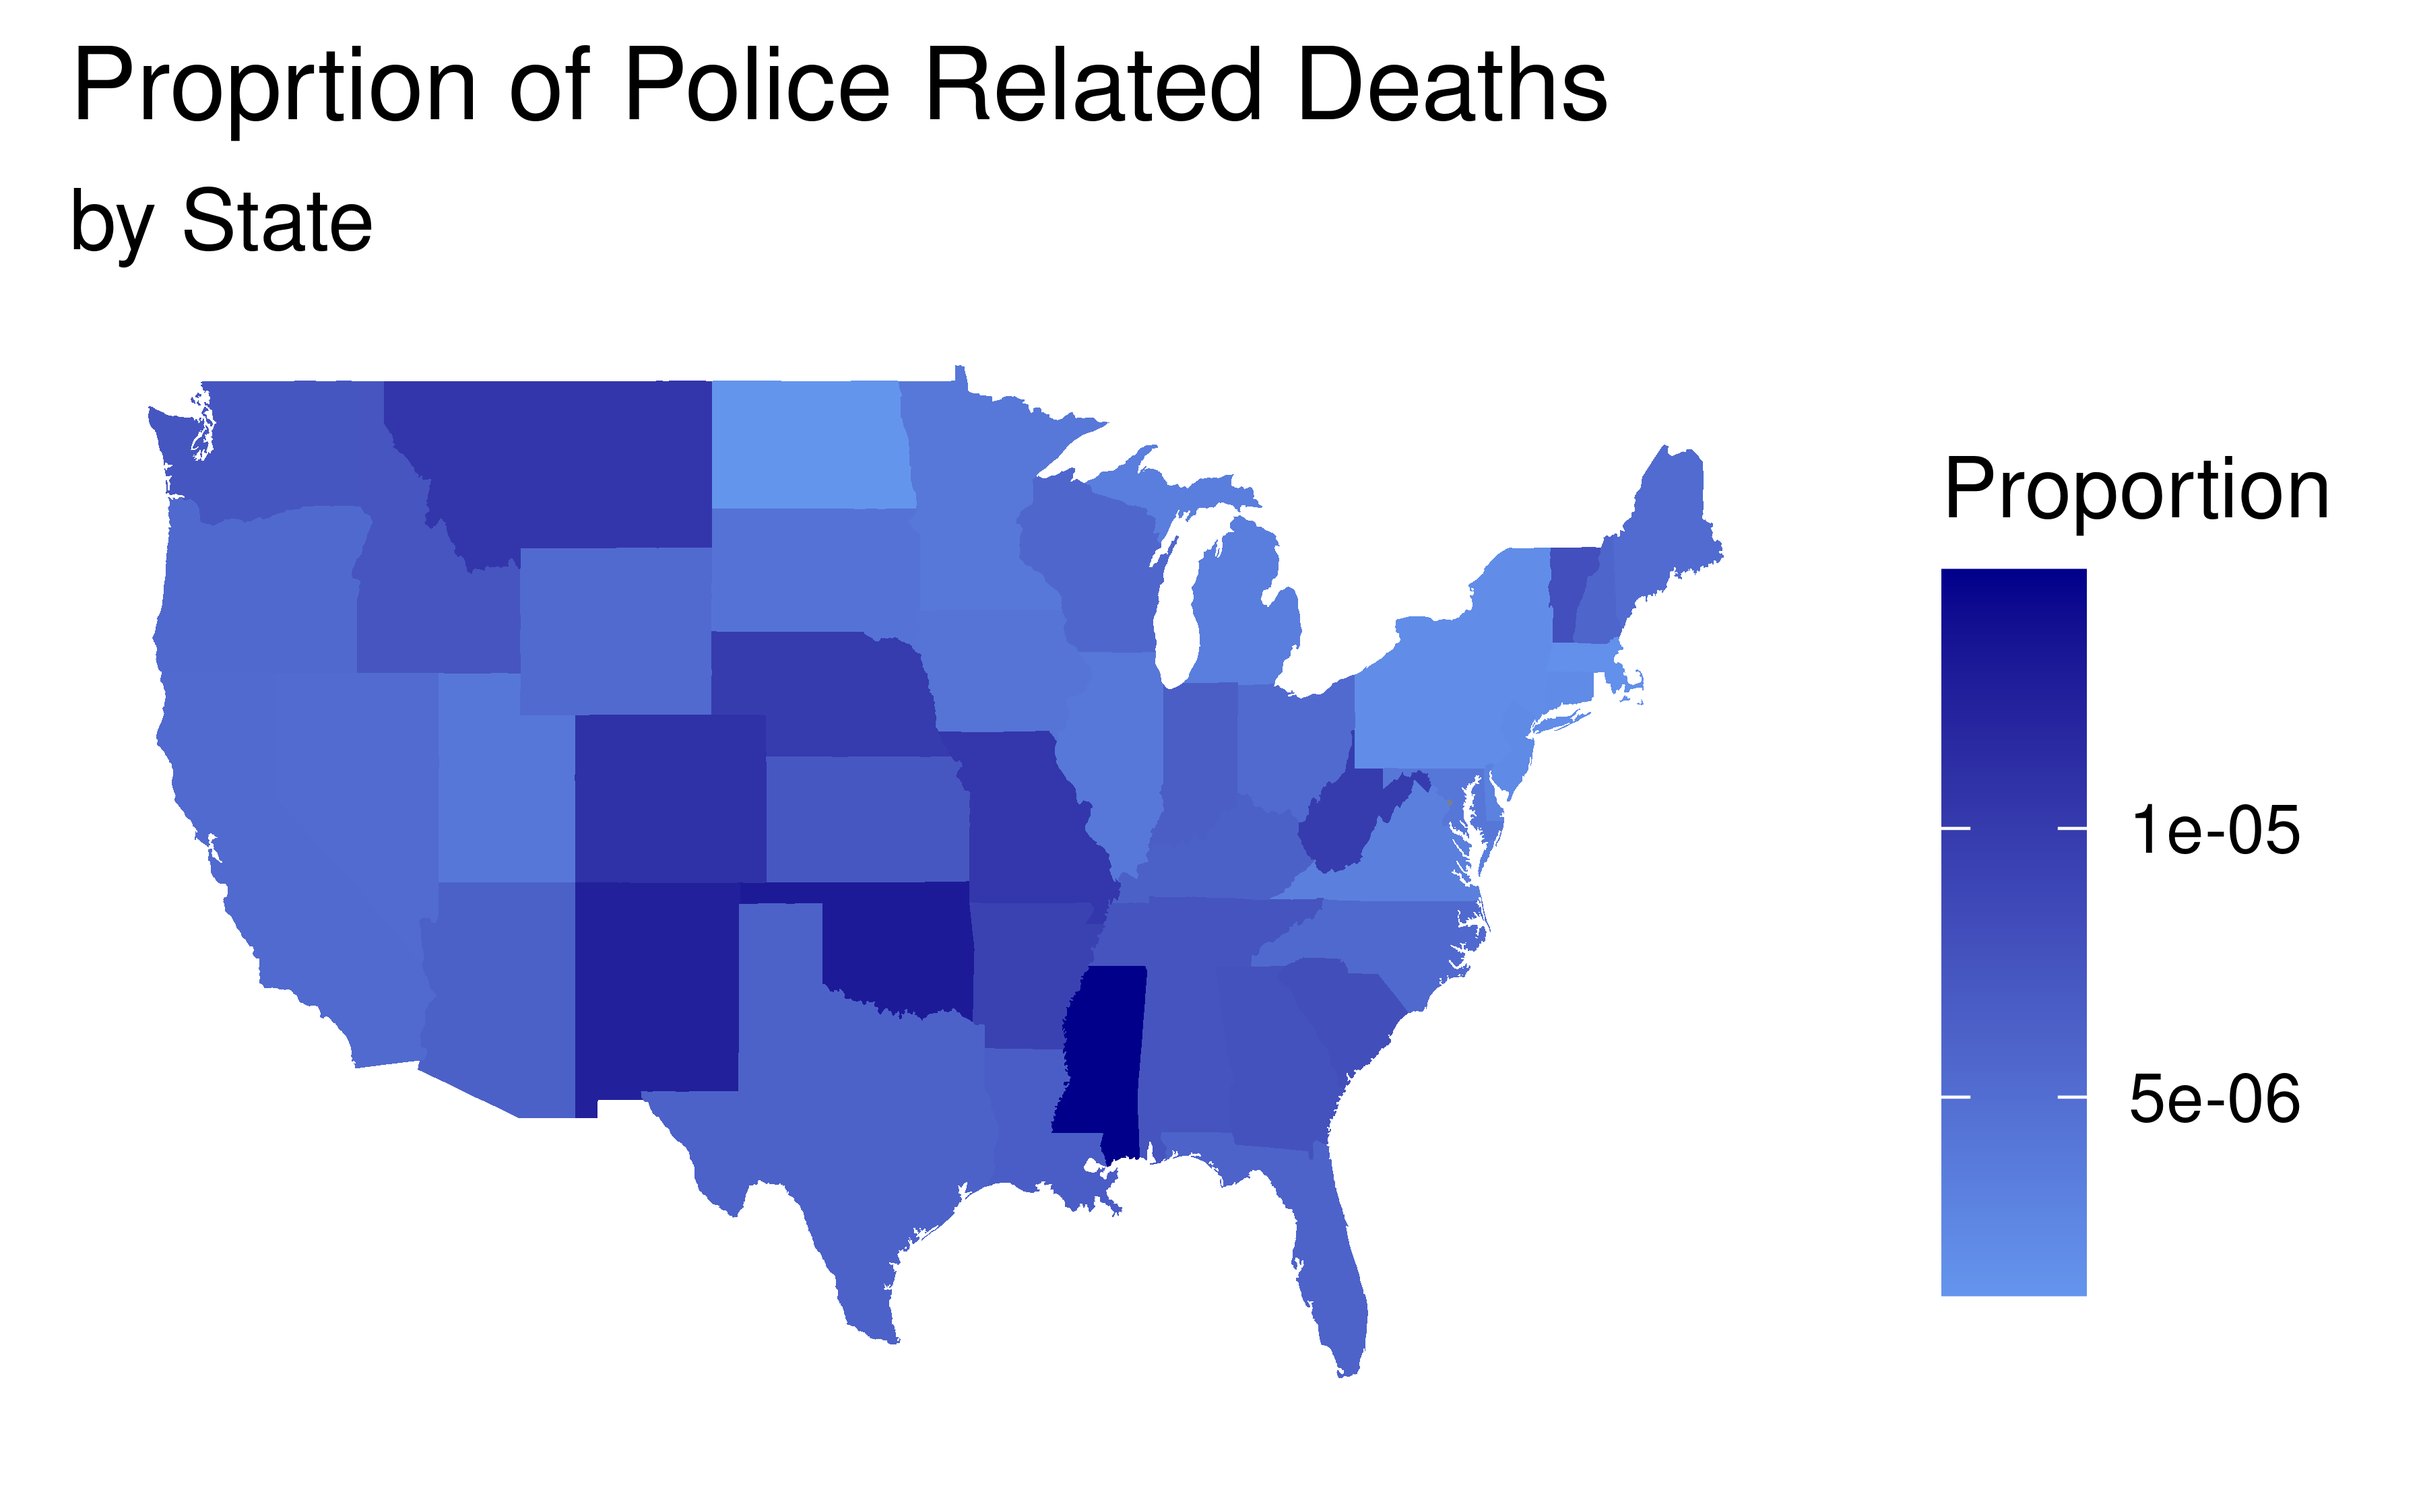
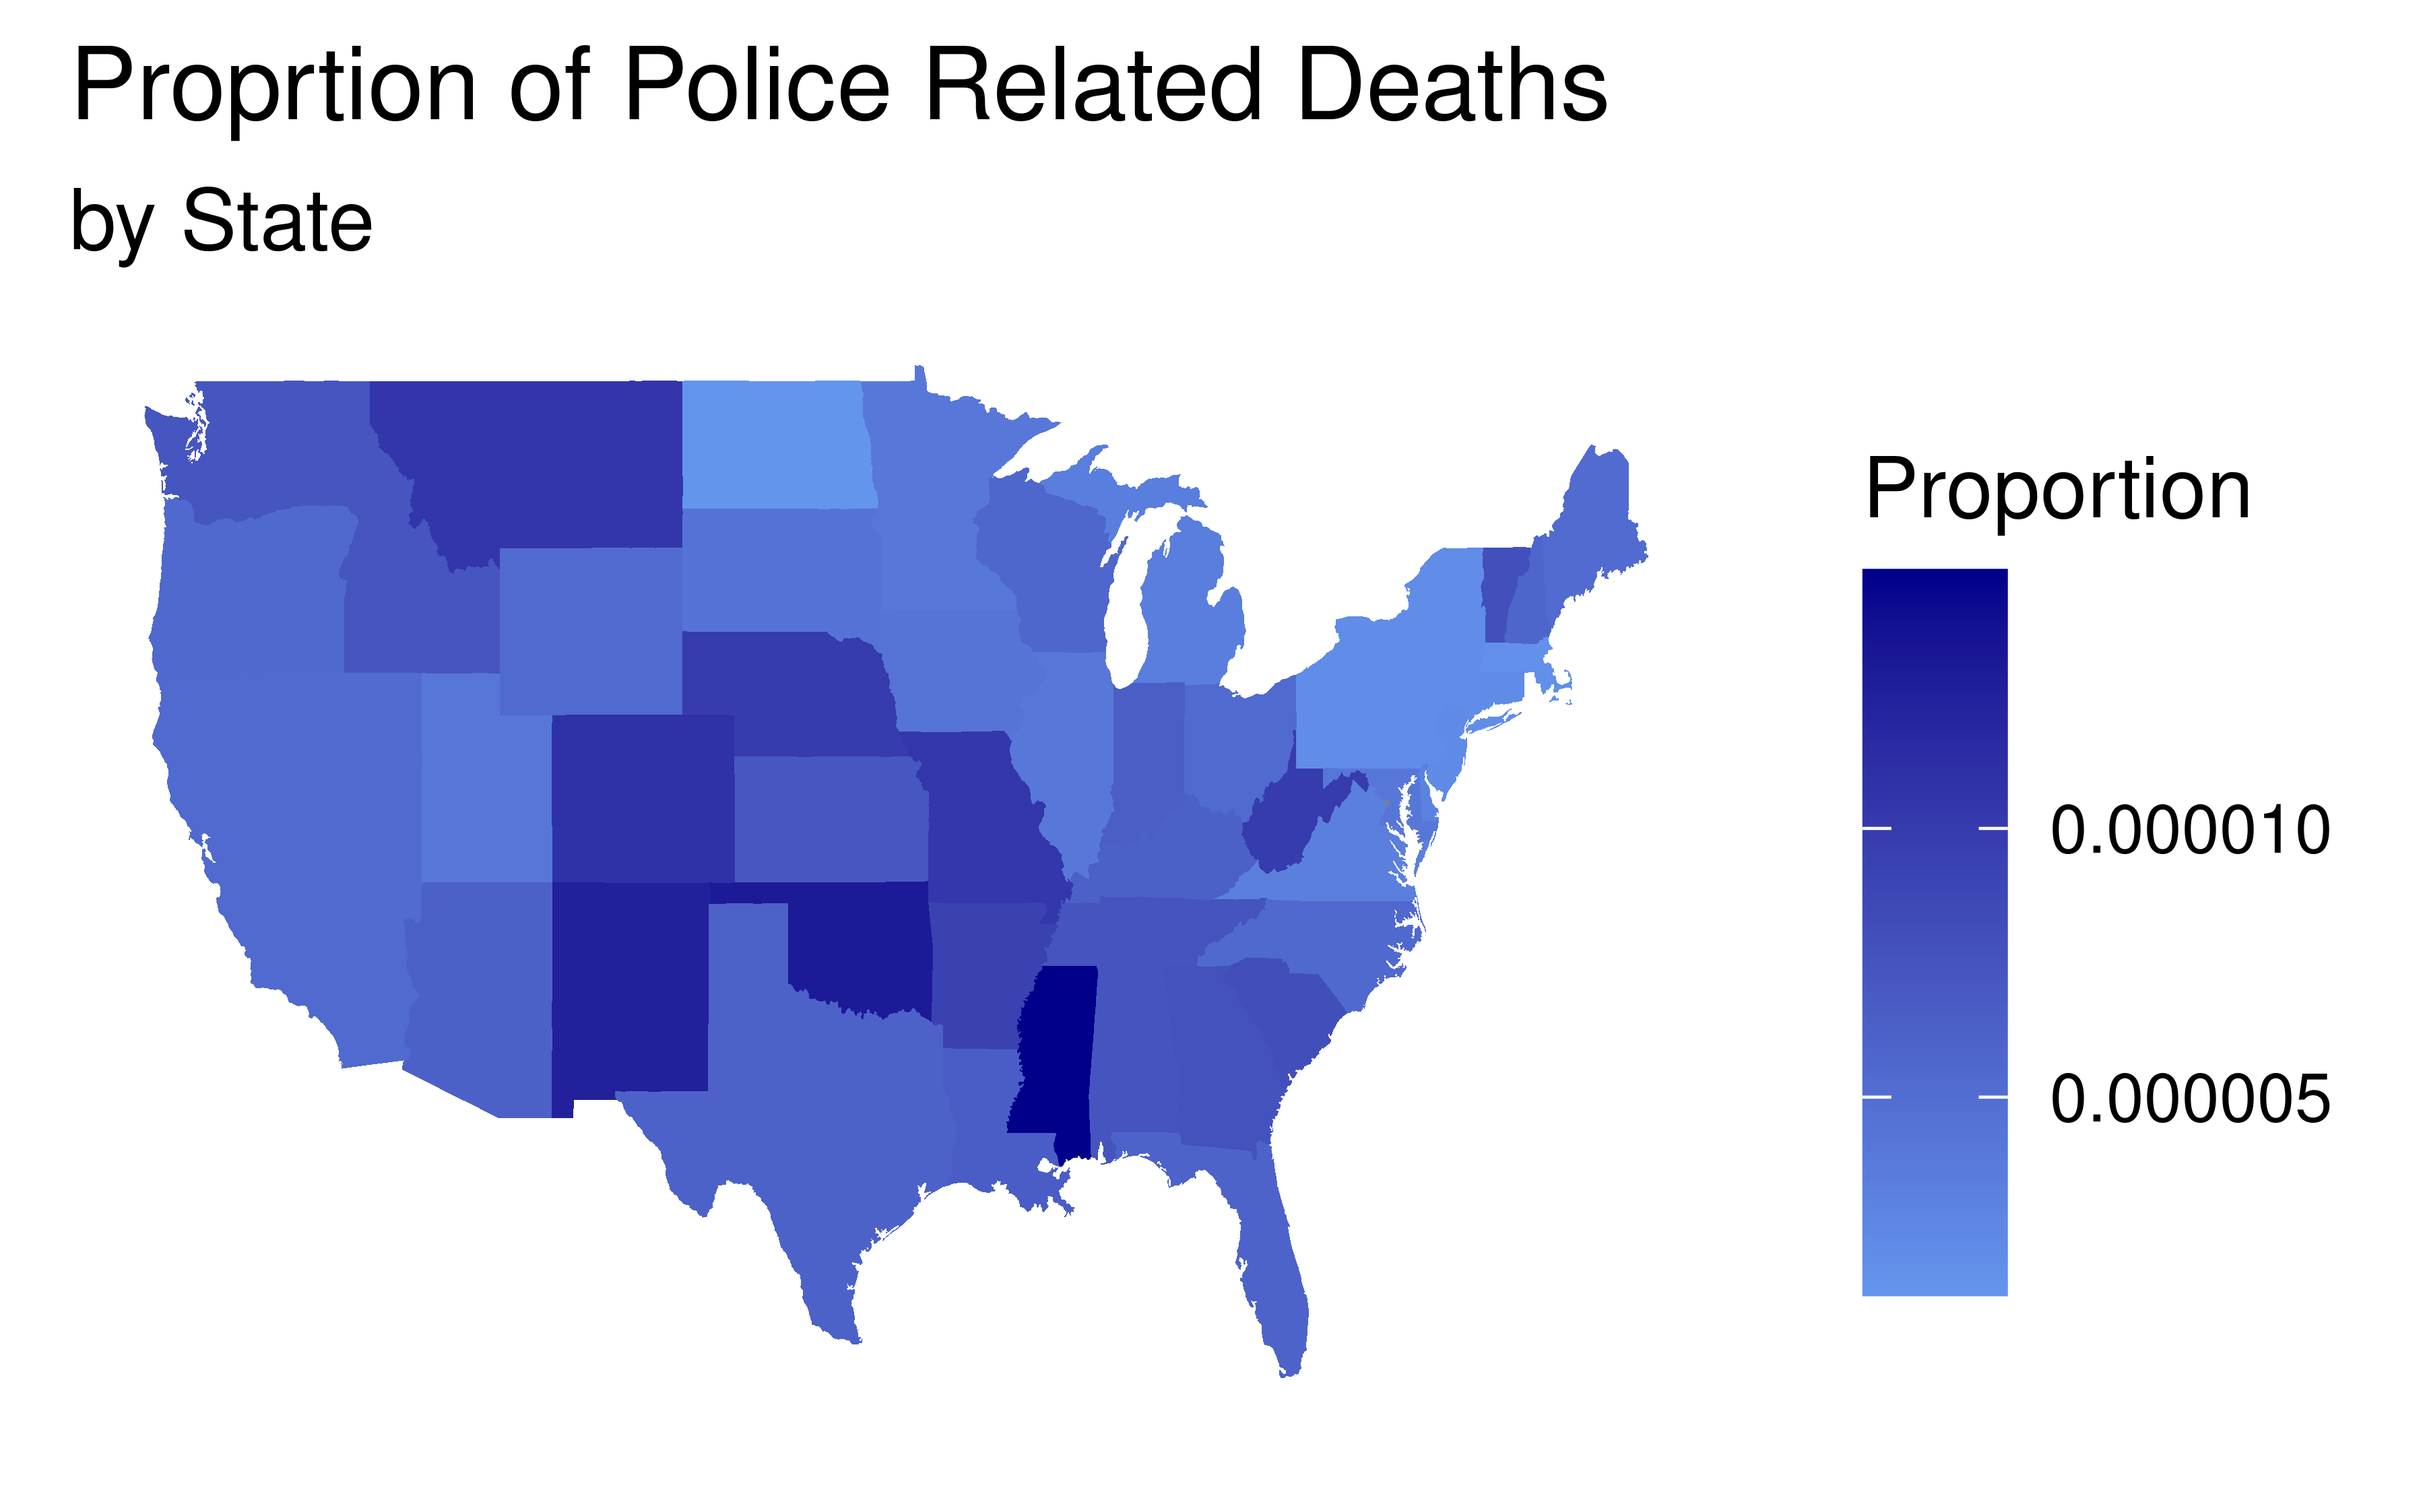
Getting rid of exponential form

diff --git a/presentation/xaringan_template/presentation.html b/presentation/xaringan_template/presentation.html
@@ -4,7 +4,7 @@
     <title>Investigating factors which could affect the likelihood of a person getting killed by the police</title>
     <meta charset="utf-8" />
     <meta name="author" content="I Have Never Coded Before  Abhey Reuben Mieke" />
-    <meta name="date" content="2021-11-30" />
+    <meta name="date" content="2021-12-01" />
     <script src="libs/header-attrs-2.11/header-attrs.js"></script>
     <link rel="stylesheet" href="xaringan-themer.css" type="text/css" />
   </head>
@@ -15,7 +15,7 @@ class: center, middle, inverse, title-slide
 # Investigating factors which could affect the likelihood of a person getting killed by the police
 ### I Have Never Coded Before<br> Abhey Reuben Mieke
 ### University of Edinburgh
-### 2021-11-30
+### 2021-12-01
 
 ---
 
@@ -52,6 +52,8 @@ police_data &lt;- police_data %&gt;%
       name == "Oliver Sevin Frazier-Savoy" ~ "European-American/White",
       TRUE ~ race))
 ```
+
+
 
 
 
